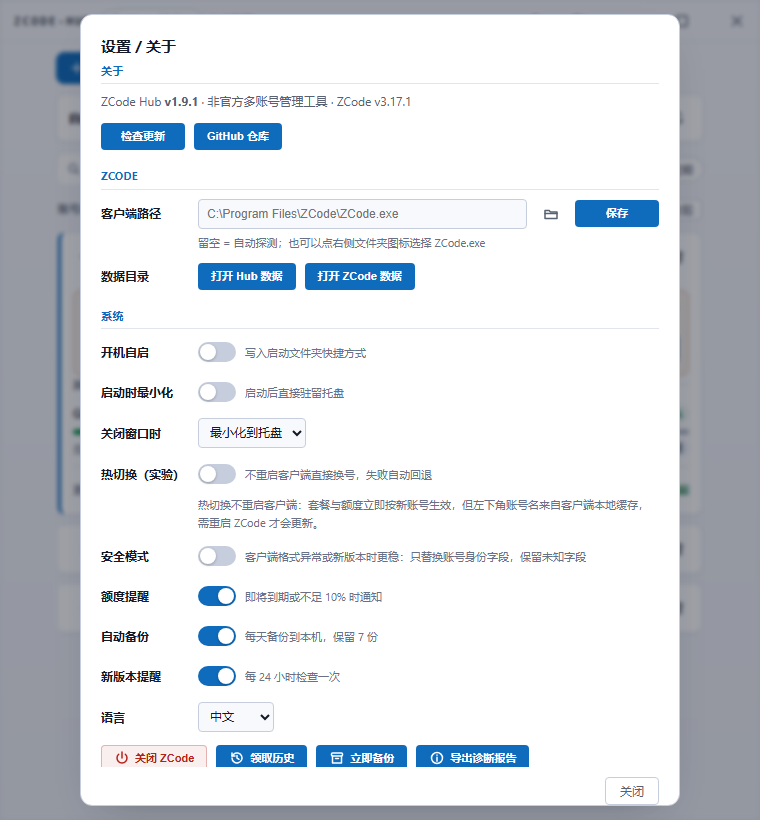
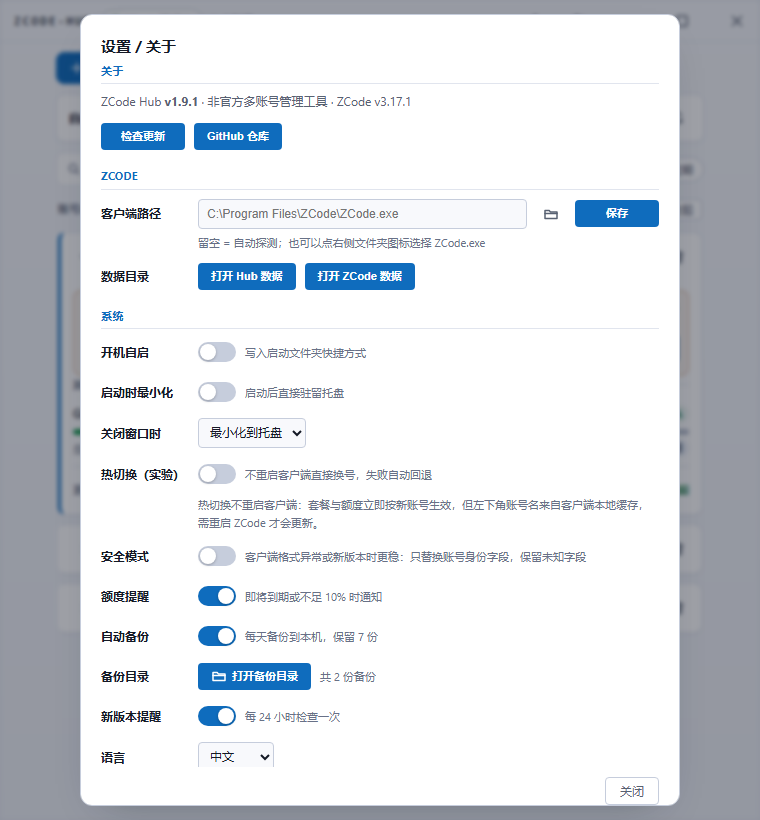
feat: open the automatic backup folder from settings
Add open_backup_dir and get_backup_status commands, a Settings row
that opens %APPDATA%/zcode-hub/backups and shows how many backups
exist, and an 'open backup folder' action on the post-backup toast.

Changed region(s): [[0.1211, 0.7927, 0.6961, 0.9451], [0.1211, 0.7927, 0.2118, 0.8841]]

diff --git a/ui/app.js b/ui/app.js
@@ -32,6 +32,7 @@ var I18N = {
     pin: "置顶", unpin: "取消置顶", tags: "标签", tags_title: "编辑标签", tags_sub: "用逗号分隔；最多 8 个，每个最多 16 字。", tags_ph: "例如：工作, 团队", tags_saved: "标签已保存", tags_fail: "保存标签失败：{e}",
     quota_notify: "额度提醒", quota_notify_hint: "即将到期或不足 10% 时通知", auto_backup: "自动备份", auto_backup_hint: "每天备份到本机，保留 7 份", update_notify: "新版本提醒", update_notify_hint: "每 24 小时检查一次",
     backup_now: "立即备份", backup_done: "备份完成：{n} 个账号", backup_fail: "备份失败：{e}", diagnostics: "导出诊断报告", diag_done: "诊断报告已导出", diag_fail: "导出失败：{e}",
+    backup_dir: "备份目录", open_backup_dir: "打开备份目录", backup_info: "共 {n} 份备份", backup_info_none: "暂无备份", backup_open_fail: "打开备份目录失败：{e}", backup_open_toast: "已打开备份目录",
     import_preview_btn: "预览", import_confirm: "确认导入", import_preview_hint: "新增 {n} · 重复 {d} · 需重登 {r}", import_preview_fail: "预览失败：{e}", import_none: "没有可导入的账号",
     preview_new: "新增", preview_dup: "重复", preview_relogin: "需重登", preview_invalid: "无效", import_confirm_hint: "确认后将合并导入，重复账号会跳过。",
     history_export: "导出 JSON", history_export_done: "已导出 {n} 条记录", history_export_fail: "导出失败：{e}", update_banner: "新版本 v{v} 可用",
@@ -104,6 +105,7 @@ var I18N = {
     pin: "Pin", unpin: "Unpin", tags: "Tags", tags_title: "Edit tags", tags_sub: "Comma-separated; up to 8 tags, 16 chars each.", tags_ph: "e.g. work, team", tags_saved: "Tags saved", tags_fail: "Failed to save tags: {e}",
     quota_notify: "Quota alerts", quota_notify_hint: "Notify when expiring soon or below 10%", auto_backup: "Auto backup", auto_backup_hint: "Daily local backup, keep 7 copies", update_notify: "Update alerts", update_notify_hint: "Check every 24 hours",
     backup_now: "Back up now", backup_done: "Backup complete: {n} accounts", backup_fail: "Backup failed: {e}", diagnostics: "Export diagnostics", diag_done: "Diagnostics exported", diag_fail: "Export failed: {e}",
+    backup_dir: "Backup folder", open_backup_dir: "Open backup folder", backup_info: "{n} backup(s)", backup_info_none: "No backups yet", backup_open_fail: "Failed to open the backup folder: {e}", backup_open_toast: "Opened the backup folder",
     import_preview_btn: "Preview", import_confirm: "Import", import_preview_hint: "{n} new · {d} duplicate · {r} need re-login", import_preview_fail: "Preview failed: {e}", import_none: "Nothing to import",
     preview_new: "New", preview_dup: "Duplicate", preview_relogin: "Re-login", preview_invalid: "Invalid", import_confirm_hint: "Import merges new accounts and skips duplicates.",
     history_export: "Export JSON", history_export_done: "Exported {n} records", history_export_fail: "Export failed: {e}", update_banner: "v{v} is available",
@@ -1462,9 +1464,29 @@ function cfgBrowseExe() {
 }
 function backupNow() {
   api("backup_now").then(function(r) {
-    if (r && r.ok) pushToast(t("backup_done", {n: r.profiles || 0}), "ok");
-    else pushToast(t("backup_fail", {e: (r && r.error) || "?"}), "bad");
+    if (r && r.ok) {
+      pushToast(t("backup_done", {n: r.profiles || 0}), "ok", {
+        label: t("open_backup_dir"),
+        onClick: function() { openBackupDir(false); }
+      });
+      loadBackupInfo();
+    } else pushToast(t("backup_fail", {e: (r && r.error) || "?"}), "bad");
   }).catch(function(e) { pushToast(t("backup_fail", {e: errText(e)}), "bad"); });
+}
+function loadBackupInfo() {
+  var txt = el("backupInfoTxt");
+  if (!txt) return;
+  api("get_backup_status").then(function(r) {
+    if (!r || r.ok === false) { txt.textContent = ""; return; }
+    txt.textContent = r.count ? t("backup_info", {n: r.count}) : t("backup_info_none");
+  }).catch(function() { txt.textContent = ""; });
+}
+function openBackupDir(showToast) {
+  api("open_backup_dir").then(function(r) {
+    if (!r || r.ok === false) { pushToast(t("backup_open_fail", {e: (r && r.error) || "?"}), "bad"); return; }
+    if (showToast) pushToast(t("backup_open_toast"), "ok");
+    loadBackupInfo();
+  }).catch(function(e) { pushToast(t("backup_open_fail", {e: errText(e)}), "bad"); });
 }
 function saveDialog(defaultPath, name, ext) {
   return invoke("plugin:dialog|save", { options: { defaultPath: defaultPath, filters: [{ name: name, extensions: [ext] }] } })
@@ -1492,6 +1514,7 @@ function exportHistory() {
 /* ---------------- settings modal / update / history ---------------- */
 function showCfg() {
   if (S.st) syncForm(true);
+  loadBackupInfo();
   openModal("cfgModal", '[data-action="cfg-checkupdate"]');
   api("get_state").then(function(st) {
     S.st = st; syncForm(true); renderAll();
@@ -1626,6 +1649,7 @@ document.addEventListener("click", function(e) {
     case "cfg-kill": doKill(); break;
     case "cfg-history": showHistory(); break;
     case "cfg-backup": backupNow(); break;
+    case "cfg-openbackup": openBackupDir(true); break;
     case "cfg-diag": exportDiagnostics(); break;
     case "bak-export": doExport(); break;
     case "bak-import": previewImport(); break;

diff --git a/ui/index.html b/ui/index.html
@@ -178,6 +178,11 @@
     <div class="mline"><span class="mlbl" data-i18n="safe_mode"></span><label class="tgl"><input type="checkbox" id="safeModeTgl"><i></i><span class="sr-only" data-i18n="safe_mode"></span></label><span class="mut" data-i18n="safe_hint"></span></div>
     <div class="mline"><span class="mlbl" data-i18n="quota_notify"></span><label class="tgl"><input type="checkbox" id="quotaNotifyTgl"><i></i><span class="sr-only" data-i18n="quota_notify"></span></label><span class="mut" data-i18n="quota_notify_hint"></span></div>
     <div class="mline"><span class="mlbl" data-i18n="auto_backup"></span><label class="tgl"><input type="checkbox" id="autoBackupTgl"><i></i><span class="sr-only" data-i18n="auto_backup"></span></label><span class="mut" data-i18n="auto_backup_hint"></span></div>
+    <div class="mline">
+      <span class="mlbl" data-i18n="backup_dir"></span>
+      <button class="camp-btn" data-action="cfg-openbackup"><svg class="icon"><use href="#i-folder"/></svg><span data-i18n="open_backup_dir"></span></button>
+      <span class="mut" id="backupInfoTxt"></span>
+    </div>
     <div class="mline"><span class="mlbl" data-i18n="update_notify"></span><label class="tgl"><input type="checkbox" id="updateNotifyTgl"><i></i><span class="sr-only" data-i18n="update_notify"></span></label><span class="mut" data-i18n="update_notify_hint"></span></div>
     <div class="mline"><span class="mlbl" data-i18n="lang"></span><select id="langSel"><option value="zh">中文</option><option value="en">English</option></select></div>
     <div class="mline">

diff --git a/tests/ui/hub.spec.js b/tests/ui/hub.spec.js
@@ -85,6 +85,25 @@ test("claim history exports to JSON", async ({ page }) => {
   await expect(page.locator(".toasts")).toContainText("已导出 2 条记录");
 });
 
+test("settings can open the backup folder and shows backup count", async ({ page }) => {
+  await page.locator('[data-action="cfg"]').click();
+  await expect(page.locator("#cfgModal")).toBeVisible();
+  await expect(page.locator("#backupInfoTxt")).toHaveText("共 2 份备份");
+  await page.locator('[data-action="cfg-openbackup"]').click();
+  await expect.poll(() => page.evaluate(() =>
+    window.__calls.filter(c => c.cmd === "open_backup_dir").length)).toBeGreaterThan(0);
+  await expect(page.locator(".toasts")).toContainText("已打开备份目录");
+});
+
+test("backup toast offers a shortcut to the backup folder", async ({ page }) => {
+  await page.locator('[data-action="cfg"]').click();
+  await page.locator('[data-action="cfg-backup"]').click();
+  await expect(page.locator(".toasts")).toContainText("备份完成");
+  await page.locator('.toasts .linkbtn', { hasText: "打开备份目录" }).click();
+  await expect.poll(() => page.evaluate(() =>
+    window.__calls.filter(c => c.cmd === "open_backup_dir").length)).toBeGreaterThan(0);
+});
+
 test("responsive grid switches between one and two columns", async ({ page }) => {
   await page.setViewportSize({ width: 700, height: 800 });
   const one = await page.evaluate(() => getComputedStyle(document.getElementById("acctList")).gridTemplateColumns);

diff --git a/tests/ui/mock.js b/tests/ui/mock.js
@@ -78,6 +78,8 @@
             ] });
         case "import_bundle": return Promise.resolve({ ok: true, added: 1, skipped: 1, relogin: 0 });
         case "backup_now": return Promise.resolve({ ok: true, profiles: 3 });
+        case "get_backup_status": return Promise.resolve({ ok: true, count: 2, latest: "20261103-000001", path: "C:/Users/demo/AppData/Roaming/zcode-hub/backups" });
+        case "open_backup_dir": return Promise.resolve({ ok: true, path: "C:/Users/demo/AppData/Roaming/zcode-hub/backups" });
         case "export_diagnostics": return Promise.resolve({ ok: true, path: args.path });
         case "export_claim_history": return Promise.resolve({ ok: true, count: 2, path: args.path });
         case "claim_history":

diff --git a/src-tauri/src/backup.rs b/src-tauri/src/backup.rs
@@ -3,6 +3,7 @@ use std::path::{Path, PathBuf};
 use std::sync::Mutex;
 
 use crate::formats::write_json;
+use crate::platform;
 use crate::settings::{load_settings, save_settings};
 use crate::util::{app_data_dir, config_path, copy_dir_all, profiles_dir};
 
@@ -14,6 +15,37 @@ static BACKUP_LOCK: Mutex<()> = Mutex::new(());
 
 fn backup_root() -> PathBuf {
     app_data_dir().join("backups")
+}
+
+/// 备份根目录（不存在时创建），供「打开备份目录」命令使用。
+pub(crate) fn ensure_backup_root() -> PathBuf {
+    let root = backup_root();
+    let _ = std::fs::create_dir_all(&root);
+    root
+}
+
+/// 现有备份数量 + 最近一次时间戳，用于设置页展示。
+pub(crate) fn backup_status() -> Value {
+    let root = backup_root();
+    let dirs = backup_dirs(&root);
+    let latest = dirs
+        .last()
+        .and_then(|p| p.file_name())
+        .map(|n| n.to_string_lossy().to_string());
+    json!({"ok": true, "count": dirs.len(), "latest": latest,
+           "path": root.display().to_string()})
+}
+
+#[tauri::command(async)]
+pub(crate) fn open_backup_dir() -> Value {
+    let root = ensure_backup_root();
+    platform::open_dir_explorer(&root);
+    json!({"ok": true, "path": root.display().to_string()})
+}
+
+#[tauri::command(async)]
+pub(crate) fn get_backup_status() -> Value {
+    backup_status()
 }
 
 /// 是否到期：从未备份过也算到期。

diff --git a/src-tauri/src/main.rs b/src-tauri/src/main.rs
@@ -119,6 +119,8 @@ pub fn run() {
             system::install_update,
             system::update_progress,
             backup::backup_now,
+            backup::open_backup_dir,
+            backup::get_backup_status,
             diagnostics::export_diagnostics,
         ])
         .run(tauri::generate_context!())
